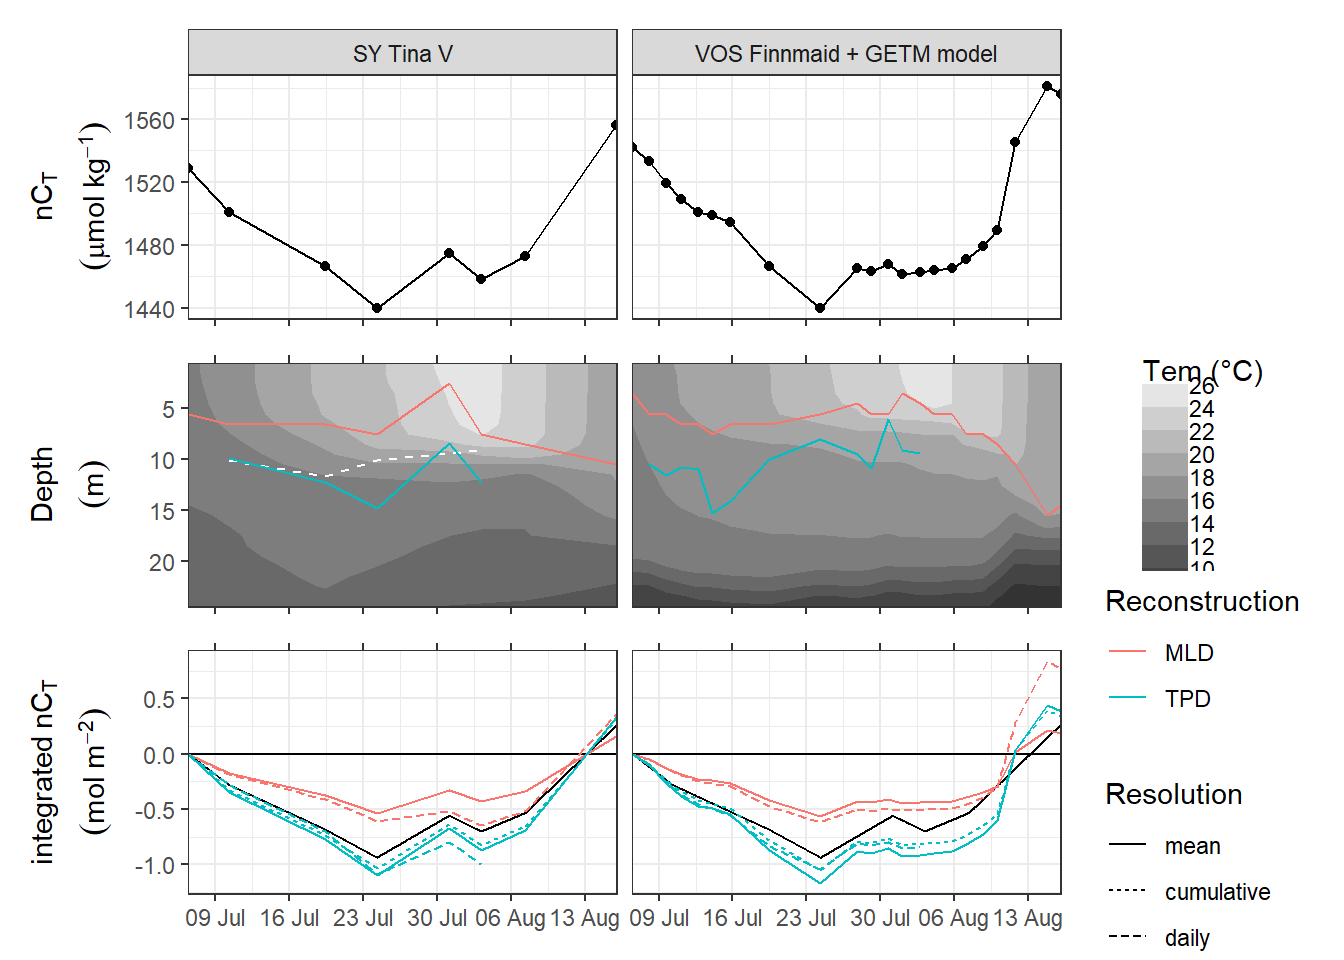
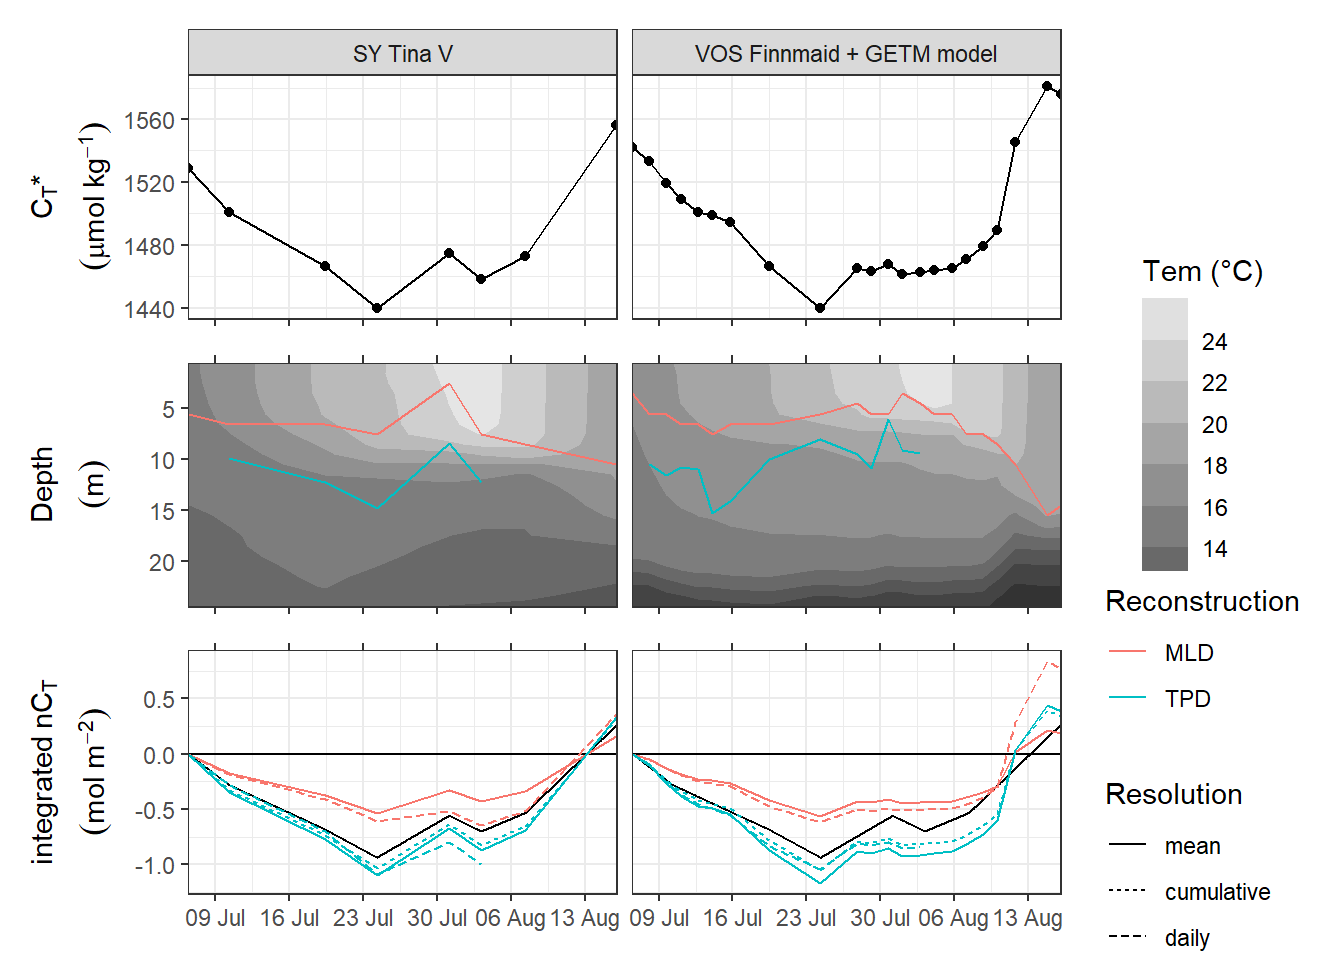
Build site.

Changed region(s): [[0.8438, 0.25, 0.9375, 0.5938], [0.0, 0.1875, 0.0625, 0.2188]]

diff --git a/docs/NCP_reconstruction.html b/docs/NCP_reconstruction.html
@@ -436,7 +436,7 @@ div.tocify {
 
 <h1 class="title toc-ignore">NCP reconstruction</h1>
 <h4 class="author">Jens Daniel Müller</h4>
-<h4 class="date">24 October, 2020</h4>
+<h4 class="date">30 October, 2020</h4>
 
 </div>
 
@@ -461,7 +461,7 @@ div.tocify {
 <div class="tab-content">
 <div id="summary" class="tab-pane fade in active">
 <p>
-<strong>Last updated:</strong> 2020-10-24
+<strong>Last updated:</strong> 2020-10-30
 </p>
 <p>
 <strong>Checks:</strong> <span class="glyphicon glyphicon-ok text-success" aria-hidden="true"></span> 7 <span class="glyphicon glyphicon-exclamation-sign text-danger" aria-hidden="true"></span> 0
@@ -552,16 +552,16 @@ This reproducible <a href="http://rmarkdown.rstudio.com">R Markdown</a> analysis
 <div class="panel panel-default">
 <div class="panel-heading">
 <p class="panel-title">
-<a data-toggle="collapse" data-parent="#workflowr-checks" href="#strongRepositoryversionstrongahrefhttpsgithubcomjensdanielmuellerBloomSailtree766a349336ef1f4e8520957e9fdfba045c57ff6ftargetblank766a349a"> <span class="glyphicon glyphicon-ok text-success" aria-hidden="true"></span> <strong>Repository version:</strong> <a href="https://github.com/jens-daniel-mueller/BloomSail/tree/766a349336ef1f4e8520957e9fdfba045c57ff6f" target="_blank">766a349</a> </a>
+<a data-toggle="collapse" data-parent="#workflowr-checks" href="#strongRepositoryversionstrongahrefhttpsgithubcomjensdanielmuellerBloomSailtree0b9ca4794b5b45255a5cde5a0ebd316688c32407targetblank0b9ca47a"> <span class="glyphicon glyphicon-ok text-success" aria-hidden="true"></span> <strong>Repository version:</strong> <a href="https://github.com/jens-daniel-mueller/BloomSail/tree/0b9ca4794b5b45255a5cde5a0ebd316688c32407" target="_blank">0b9ca47</a> </a>
 </p>
 </div>
[2 lines of base64/hex data omitted]
 <div class="panel-body">
 <p>
 Great! You are using Git for version control. Tracking code development and connecting the code version to the results is critical for reproducibility.
 </p>
 <p>
-The results in this page were generated with repository version <a href="https://github.com/jens-daniel-mueller/BloomSail/tree/766a349336ef1f4e8520957e9fdfba045c57ff6f" target="_blank">766a349</a>. See the <em>Past versions</em> tab to see a history of the changes made to the R Markdown and HTML files.
+The results in this page were generated with repository version <a href="https://github.com/jens-daniel-mueller/BloomSail/tree/0b9ca4794b5b45255a5cde5a0ebd316688c32407" target="_blank">0b9ca47</a>. See the <em>Past versions</em> tab to see a history of the changes made to the R Markdown and HTML files.
 </p>
 <p>
 Note that you need to be careful to ensure that all relevant files for the analysis have been committed to Git prior to generating the results (you can use <code>wflow_publish</code> or <code>wflow_git_commit</code>). workflowr only checks the R Markdown file, but you know if there are other scripts or data files that it depends on. Below is the status of the Git repository when the results were generated:
@@ -573,21 +573,13 @@ Ignored files:
     Ignored:    data/input/
     Ignored:    data/intermediate/
     Ignored:    data/output_submission/
+    Ignored:    output/Plots/Figures_publication/.tmp.drivedownload/
 
 Untracked files:
-    Untracked:  output/Plots/Figures_publication/.tmp.drivedownload/
+    Untracked:  output/Plots/Figures_publication/Appendix/CT_entrainment.pdf
+    Untracked:  output/Plots/Figures_publication/Appendix/CT_entrainment.png
     Untracked:  output/Plots/Figures_publication/Appendix/nCT_sensitivity_to_AT.pdf
     Untracked:  output/Plots/Figures_publication/Appendix/nCT_sensitivity_to_AT.png
-
-Unstaged changes:
-    Modified:   output/Plots/Figures_publication/Appendix/Phytoplankton_mean_total_biomass.pdf
-    Modified:   output/Plots/Figures_publication/Appendix/Phytoplankton_mean_total_biomass.png
-    Modified:   output/Plots/Figures_publication/Appendix/tb_profiles.pdf
-    Modified:   output/Plots/Figures_publication/Article/Hov_abs_profiles_cum.pdf
-    Modified:   output/Plots/Figures_publication/Article/atm_water_timeseries.pdf
-    Modified:   output/Plots/Figures_publication/Article/data_coverage.pdf
-    Modified:   output/Plots/Figures_publication/Article/profiles_all.pdf
-    Modified:   output/Plots/Figures_publication/Article/station_map.pdf
 
 </code></pre>
 <p>
@@ -626,6 +618,40 @@ Message
 </tr>
 </thead>
 <tbody>
+<tr>
+<td>
+Rmd
+</td>
+<td>
+<a href="https://github.com/jens-daniel-mueller/BloomSail/blob/0b9ca4794b5b45255a5cde5a0ebd316688c32407/analysis/NCP_reconstruction.Rmd" target="_blank">0b9ca47</a>
+</td>
+<td>
+jens-daniel-mueller
+</td>
+<td>
+2020-10-30
+</td>
+<td>
+updated plot
+</td>
+</tr>
+<tr>
+<td>
+html
+</td>
+<td>
+<a href="https://rawcdn.githack.com/jens-daniel-mueller/BloomSail/9a3f42a850f89b69d48ccdbb71e801cf70fa5ec9/docs/NCP_reconstruction.html" target="_blank">9a3f42a</a>
+</td>
+<td>
+jens-daniel-mueller
+</td>
+<td>
+2020-10-24
+</td>
+<td>
+Build site.
+</td>
+</tr>
 <tr>
 <td>
 html
@@ -2497,7 +2523,7 @@ CPD &lt;- CPD %&gt;%
   mutate(source = fct_recode(
     source,
     `VOS Finnmaid + GETM model` = &quot;fm&quot;,
-    `SY Tina V` = &quot;tm&quot;
+    `BloomSail (surface only)` = &quot;tm&quot;
   ))
 
 i_dep &lt;- i_dep %&gt;%
@@ -2520,12 +2546,12 @@ p_hov_dep &lt;-
   ggplot() +
   geom_contour_fill(aes(date_time_ID, dep, z = tem),
                     breaks = MakeBreaks(bin)) +
-  geom_path(
-    data = CPD,
-    aes(date_time_ID, i_dep),
-    col = &quot;white&quot;,
-    linetype = 2
-  ) +
+  # geom_path(
+  #   data = CPD,
+  #   aes(date_time_ID, i_dep),
+  #   col = &quot;white&quot;,
+  #   linetype = 2
+  # ) +
   geom_path(data = i_dep %&gt;% filter(i_res == &quot;daily&quot; &amp; i_dep != 0),
             aes(date_time_ID, i_dep, col = i_method)) +
   scale_fill_gradient(
@@ -2535,6 +2561,7 @@ p_hov_dep &lt;-
     high = &quot;grey90&quot;,
     low = &quot;grey20&quot;
   ) +
+  guides(fill = guide_colorsteps(barheight = unit(5.5, &quot;cm&quot;))) +
   scale_color_discrete(name = &quot;Reconstruction&quot;, guide = FALSE) +
   scale_y_reverse() +
   scale_x_datetime(date_breaks = &quot;week&quot;,
@@ -2628,7 +2655,7 @@ NCP_flux_int &lt;- NCP_flux %&gt;%
                    expand = c(0, 0)) +
   scale_linetype(name = &quot;Resolution&quot;) +
   facet_wrap( ~ source) +
-  labs(y = expression(atop(nC[T], (mu * mol ~ kg ^ {
+  labs(y = expression(atop(paste(C[T],&quot;*&quot;), (mu * mol ~ kg ^ {
     -1
   })))) +
   theme(axis.title.x = element_blank(),
@@ -2665,42 +2692,42 @@ p_iCT &lt;- iCT %&gt;%
 
 p_nCT / p_hov_dep / p_iCT</code></pre>
 <p><img src="figure/NCP_reconstruction.Rmd/iCT_time_series-1.png" width="672" style="display: block; margin: auto;" /></p>
-<pre class="r"><code>ggsave(
-  here::here(
-    &quot;output/Plots/Figures_publication/article&quot;,
-    &quot;reconstruction_iCT_timeseries.pdf&quot;
-  ),
-  width = 190,
-  height = 200,
-  dpi = 300,
-  units = &quot;mm&quot;
-)
-
-ggsave(
-  here::here(
-    &quot;output/Plots/Figures_publication/article&quot;,
-    &quot;reconstruction_iCT_timeseries.png&quot;
-  ),
-  width = 190,
-  height = 200,
-  dpi = 300,
-  units = &quot;mm&quot;
-)</code></pre>
+<pre class="r"><code># ggsave(
+#   here::here(
+#     &quot;output/Plots/Figures_publication/article&quot;,
+#     &quot;reconstruction_iCT_timeseries.pdf&quot;
+#   ),
+#   width = 190,
+#   height = 200,
+#   dpi = 300,
+#   units = &quot;mm&quot;
+# )
+# 
+# ggsave(
+#   here::here(
+#     &quot;output/Plots/Figures_publication/article&quot;,
+#     &quot;reconstruction_iCT_timeseries.png&quot;
+#   ),
+#   width = 190,
+#   height = 200,
+#   dpi = 300,
+#   units = &quot;mm&quot;
+# )</code></pre>
 <pre class="r"><code>NCP_flux &lt;- NCP_flux %&gt;%
   mutate(i_res = factor(i_res, c(&quot;mean&quot;, &quot;cumulative&quot;, &quot;daily&quot;)))
 
 p_NCP &lt;- NCP_flux_int %&gt;%
-  filter(i_res %in% c(&quot;daily&quot;, &quot;cumulative&quot;)) %&gt;%
+  filter(i_res %in% c(&quot;daily&quot;)) %&gt;%
   ggplot() +
   geom_hline(yintercept = 0) +
   geom_path(data = tm_NCP_cum,
-            aes(date_time, nCT_i_flux_mix_cum),
+            aes(date_time, nCT_i_flux_mix_cum, linetype = &quot;best guess&quot;),
             col = &quot;black&quot;) +
   geom_path(aes(
     date_time,
     nCT_i_flux_cum,
     col = i_method,
-    linetype = i_res
+    linetype = &quot;reconstruction&quot;
   )) +
   scale_color_discrete(name = &quot;Integration depth&quot;) +
   scale_x_datetime(
@@ -2709,7 +2736,8 @@ p_NCP &lt;- NCP_flux_int %&gt;%
     sec.axis = dup_axis(),
     expand = c(0, 0)
   ) +
-  scale_linetype(name = &quot;Estimate&quot;) +
+  scale_linetype_manual(name = &quot;Estimate&quot;,
+                        values = c(2,1)) +
   facet_wrap( ~ source) +
   labs(y = expression(atop(NCP, (mol ~ m ^ {
     -2
